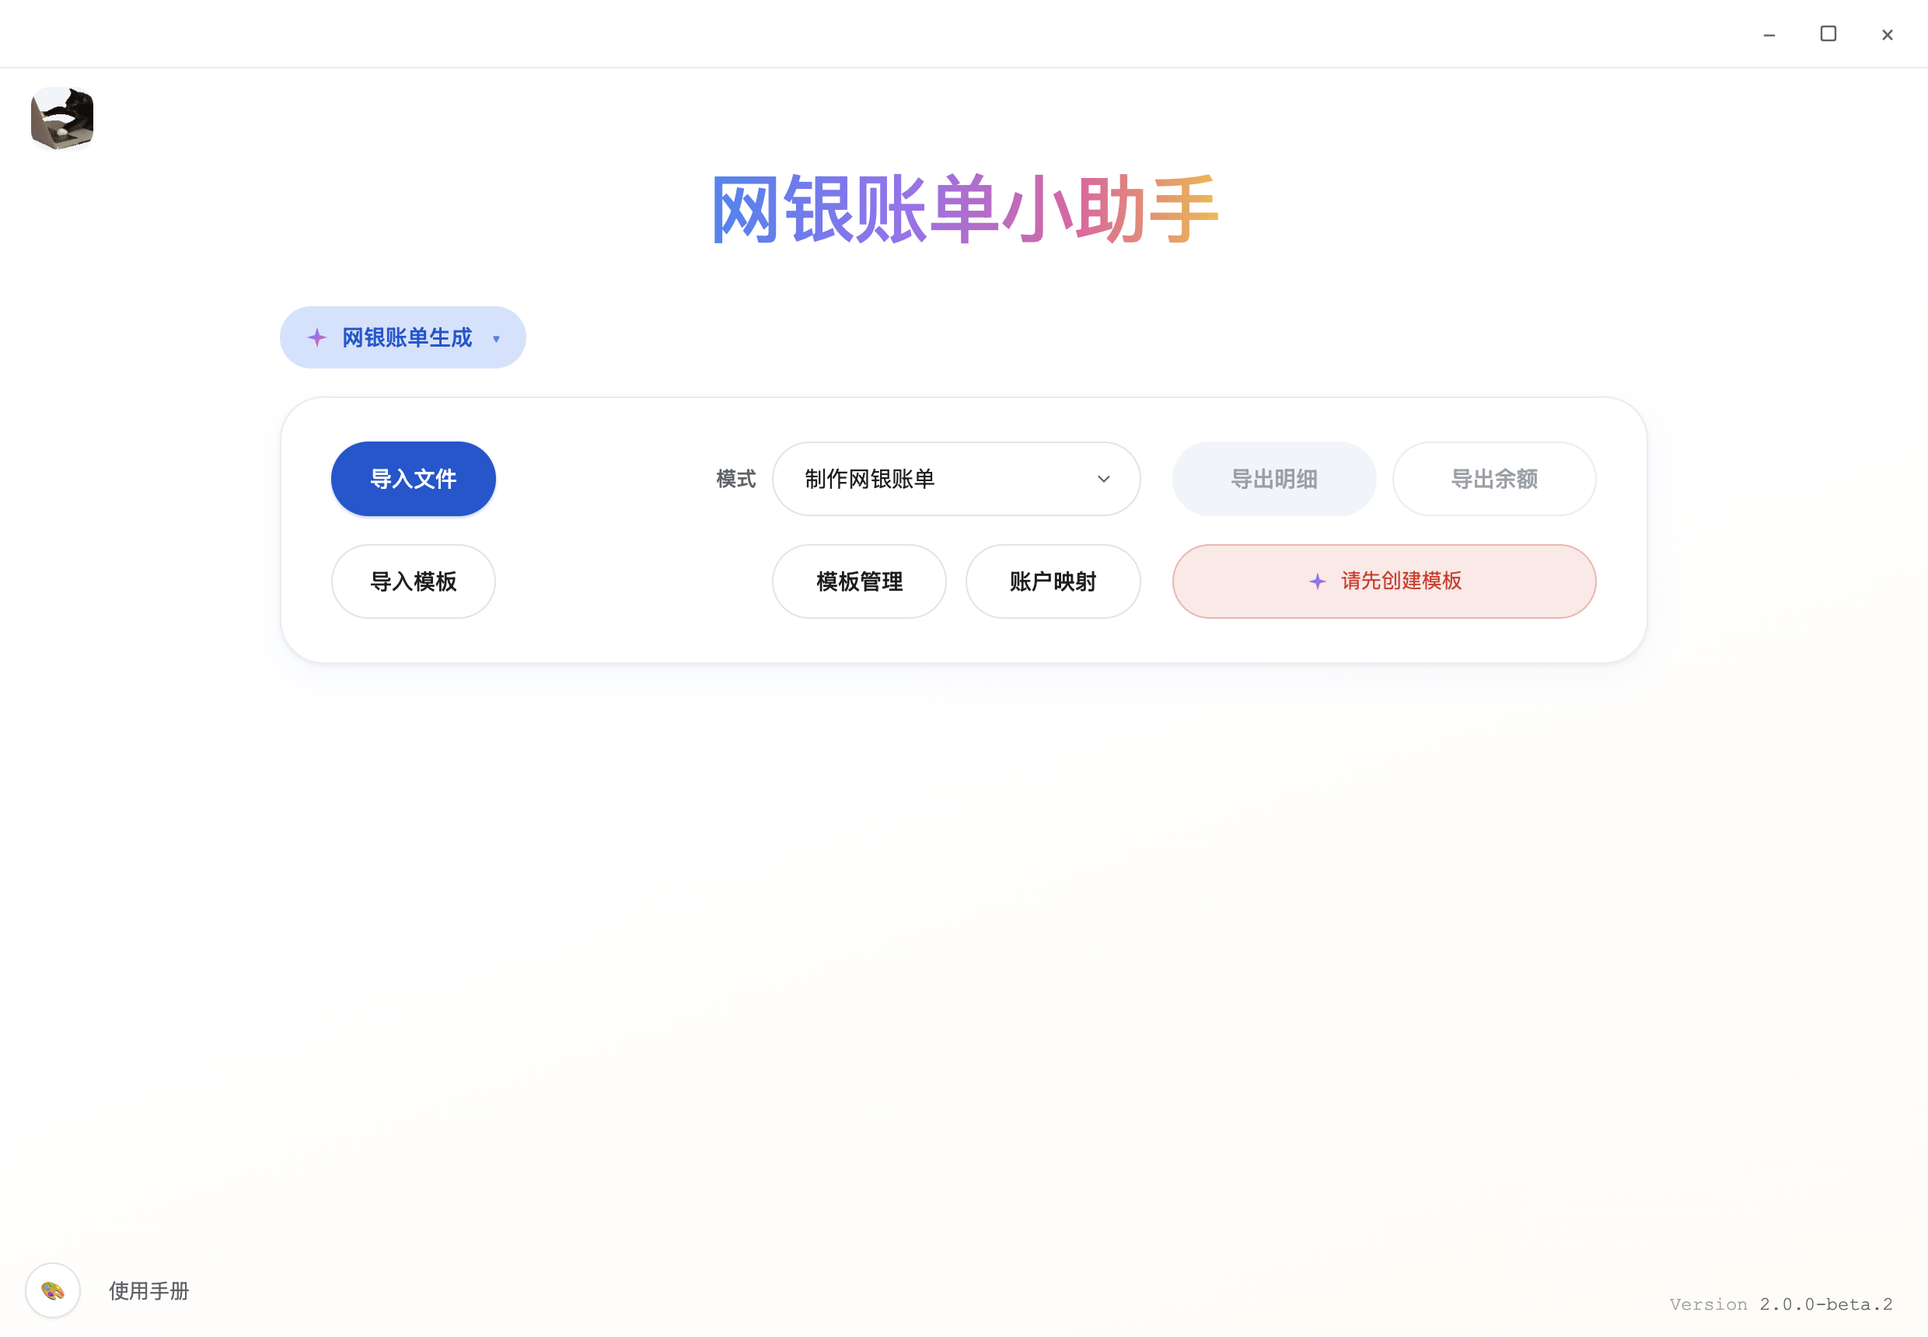
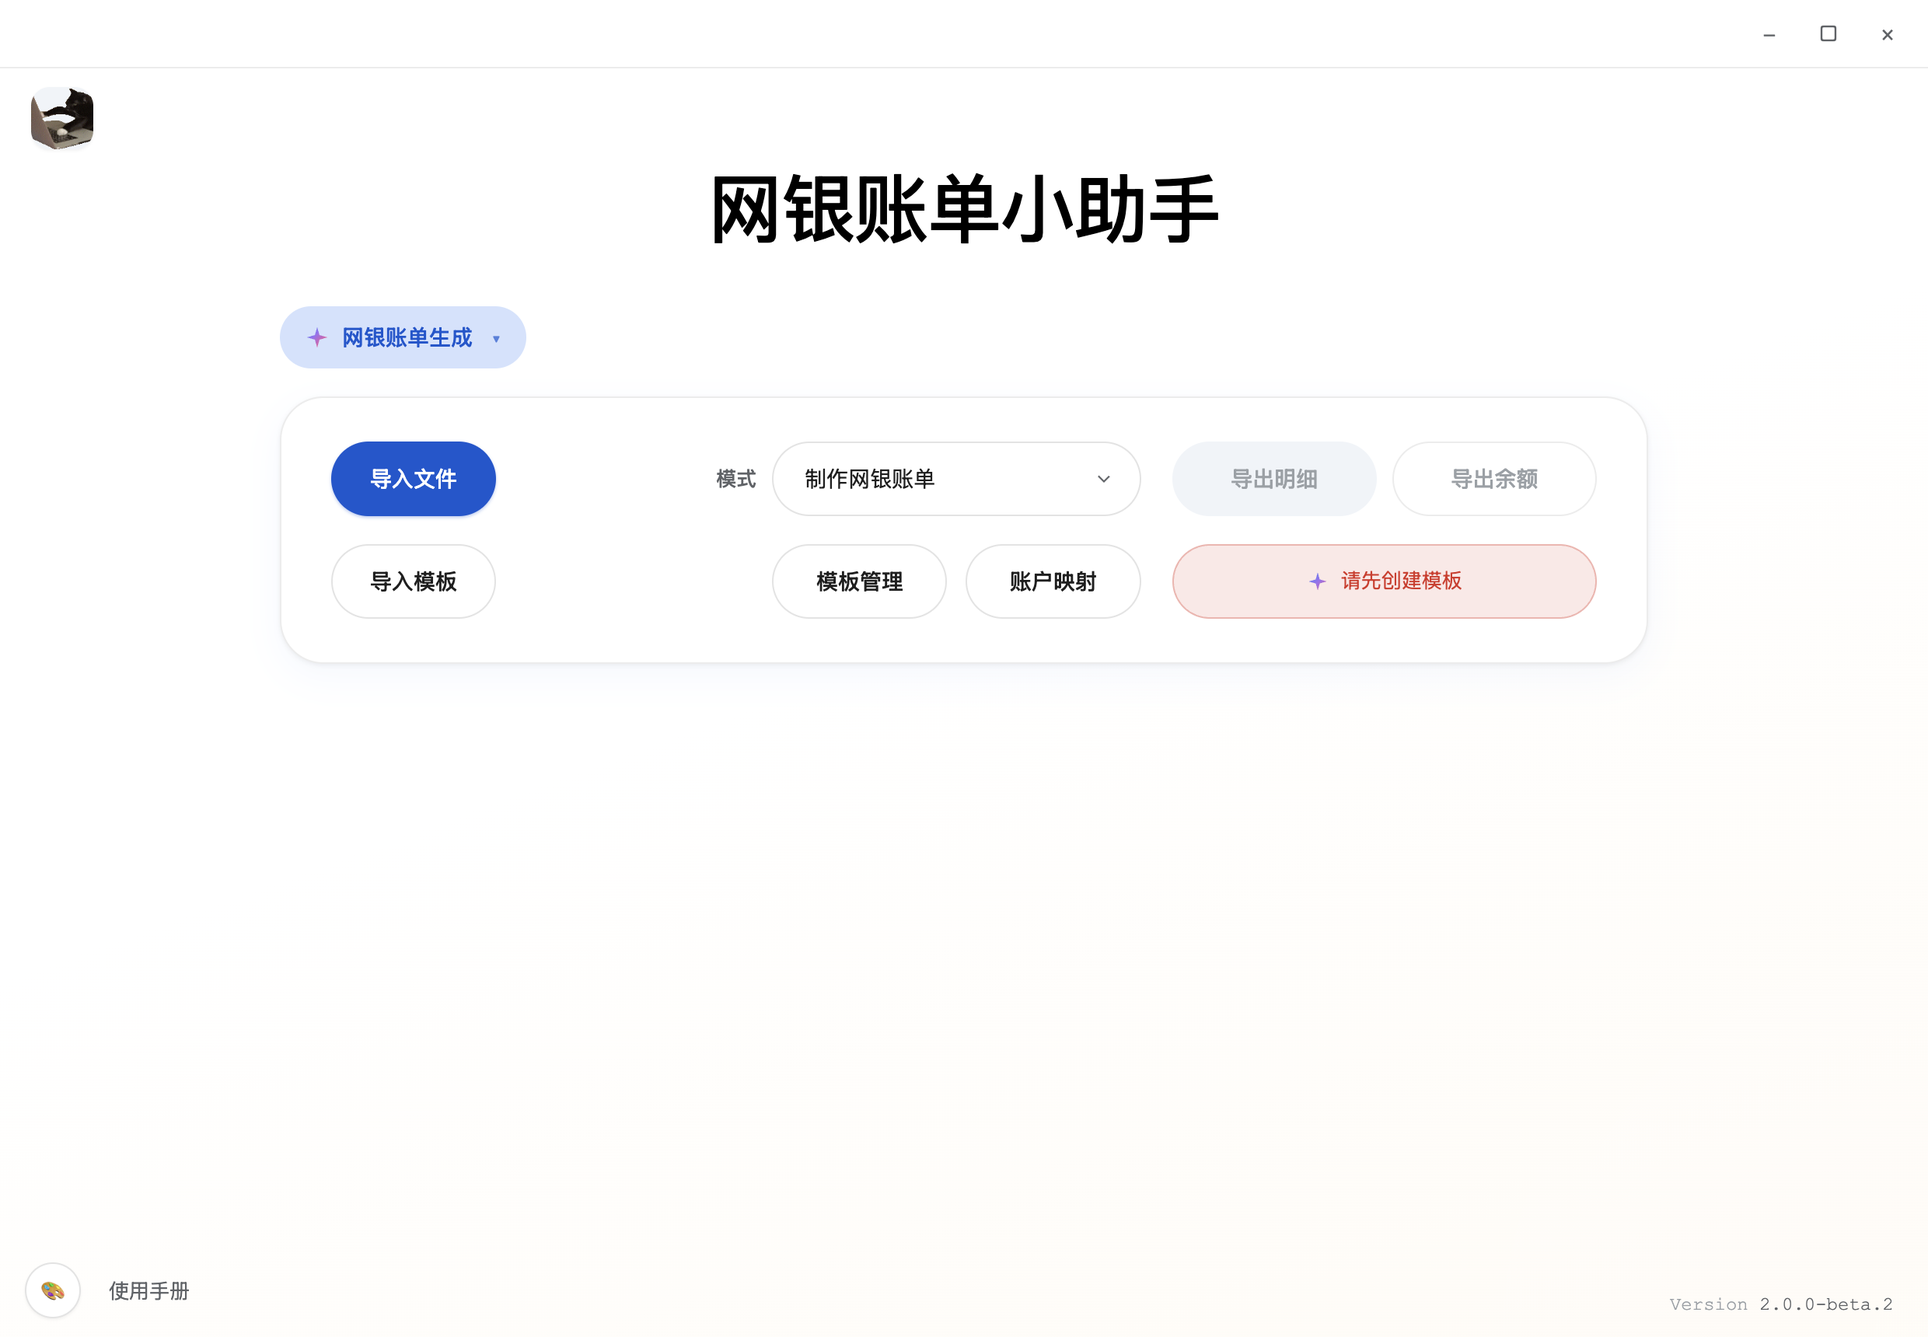
[v2.0.0-beta.2] feat: 主页面标题黑色 + 月度余额日期统一月末
T1 主页面标题：index.html "网银账单小助手" 在 Clear 风格下从 4 色
渐变改为纯黑色（styles-gemini.css 单点改 .gemini-gradient）；
General 风格已退化为 inherit，无需改动。

T3 月度余额账单：assembleMonthlyBalance 输出的 records.billDate
统一为目标月末日（targetLastDay），不再用 seed 实际记录日。

⚠ 反转 v1.5.3 R1 (T1.4) PRD §5.1.3 Q2 资金红线决策：
- 旧：billDate 用 seed 实际记录日（如 2026-02-25）
- 新：billDate 统一月末日（如 2026-02-28）
- endBalance 不变，仍取 seed 里"≤ 月末的最近交易日"那条的余额值
- pickReason 仍区分 'exact' / 'fallback' 用于 stats 报告

Smoke 用例同步反转：
- 场景 3 (P0-5)：fallback 时 billDate 期望从 '2026-02-28' → '2026-03-31'
- 场景 7 (P0-11)：自有账号 billDate 期望从 '2026-03-15' → '2026-03-31'

不 bump 版本号；不更新 CHANGELOG / VERSION_FEATURE_HISTORY /
USER_GUIDE（按 workflow_docs_update：v2.0.0 系列发版前统一收口）。

Changed region(s): [[0.3726, 0.1233, 0.621, 0.1849]]

diff --git a/scripts/smoke/scenarios.js b/scripts/smoke/scenarios.js
@@ -821,6 +821,7 @@ function runMonthlyBalanceScenario() {
     // -----------------------------------------------------------------------
     // 场景 3（P0-5 对应）：单模板 × 2026-03 某账号仅有 2026-02-28 → 兜底
     // 中行-北京 BOC_CLIENT_2/CNY 仅有 2026-02-28
+    // v2.0.0 反转：billDate 统一为月末日（targetLastDay）；endBalance 仍是 chosen.endBalance；pickReason 仍区分 exact/fallback
     const r3 = assembleMonthlyBalance({
       templateScope: '中行-北京',
       year: 2026, month: 3,
@@ -828,8 +829,8 @@ function runMonthlyBalanceScenario() {
     });
     const bocC2CNY = r3.records.find((r) => r.merchantId === 'BOC_CLIENT_2' && r.currency === 'CNY');
     assert(bocC2CNY, '场景3 BOC_CLIENT_2/CNY 应存在');
-    assert.strictEqual(bocC2CNY.billDate, '2026-02-28', '场景3 兜底 → billDate 应为 2026-02-28');
-    assert.strictEqual(bocC2CNY.endBalance, 900.00, '场景3 endBalance 应为 900.00');
+    assert.strictEqual(bocC2CNY.billDate, '2026-03-31', '场景3 兜底 → billDate 仍为月末日 2026-03-31（v2.0.0 反转：不再用 seed 实际日期 2026-02-28）');
+    assert.strictEqual(bocC2CNY.endBalance, 900.00, '场景3 endBalance 应为 900.00（仍是 2026-02-28 那条 seed 的余额）');
     assert.strictEqual(bocC2CNY.pickReason, 'fallback');
 
     // -----------------------------------------------------------------------
@@ -888,7 +889,8 @@ function runMonthlyBalanceScenario() {
     });
     const ownInResult = r6.records.find((r) => r.merchantId === 'BOC_OWN_1');
     assert(ownInResult, '场景7 自有账号 BOC_OWN_1 应出现在 R1 records');
-    assert.strictEqual(ownInResult.billDate, '2026-03-15');
+    // v2.0.0 反转：billDate 统一为月末日 2026-03-31（不再用 seed 实际日期 2026-03-15）；endBalance 仍是 77.77
+    assert.strictEqual(ownInResult.billDate, '2026-03-31');
     assert.strictEqual(ownInResult.endBalance, 77.77);
 
     // toBalanceRows 字段对齐（模拟 balanceTemplateFields）

diff --git a/src/main-process/monthly-balance.js b/src/main-process/monthly-balance.js
@@ -1,4 +1,5 @@
 // v1.5.3 R1 (T1.2)：月度余额账单导出装配模块（资金红线集中点）
+// v2.0.0-pre-beta3-quickwin：billDate 输出统一为月末日（反转 v1.5.3 Q2 资金红线决策）
 //
 // 职责：
 //   - assembleMonthlyBalance：按 templateScope × {year, month} 从 balance-seeds 装配 records
@@ -9,6 +10,8 @@
 //          - 若存在 billDate === 月末最后一日 → 优先用该日
 //          - 若全部 seeds 的 billDate > 月末 → 跳过该大账号（"未来余额排除"）
 //          - 无任何 seeds → 跳过该大账号
+//          - **v2.0.0 反转**：输出 records.billDate 统一用 targetLastDay（月末日），不再用 seed 实际记录日；
+//            endBalance 仍取 chosen.endBalance（最近交易日的余额值）
 //   - Q6：R1 是全流程里唯一放行 account_nature='own' 的场景，所以必须显式传 { includeOwn: true }
 //   - Q4：所有模板 / 大账号 / 币种的余额条目合并到单个 sheet
 //
@@ -188,13 +191,14 @@ function assembleMonthlyBalance({ templateScope, year, month, db, storageRoot })
         continue;
       }
 
-      // Q2 资金红线：billDate 用 seed 实际记录的那一天（可能是 2026-02-28），不是月末
+      // v2.0.0：billDate 统一用月末日（targetLastDay）；endBalance 仍是 chosen.endBalance
+      // —— 反转 v1.5.3 R1 Q2 "用 seed 实际记录日" 决策；用户业务要求月度账单日期落在月末
       records.push({
         bankName,
         location,
         merchantId,
         currency,
-        billDate: chosen.billDate,
+        billDate: targetLastDay,
         endBalance: chosen.endBalance,
         templateName,
         pickReason: reason

diff --git a/src/styles-gemini.css b/src/styles-gemini.css
@@ -120,15 +120,7 @@ button, select { font: inherit; }
   line-height: 1.1;
 }
 .gemini-gradient {
-  background: linear-gradient(92deg,
-    var(--g-blue) 0%,
-    var(--g-purple) 38%,
-    var(--g-pink) 72%,
-    var(--g-yellow) 100%);
-  -webkit-background-clip: text;
-  background-clip: text;
-  -webkit-text-fill-color: transparent;
-  color: transparent;
+  color: #000;
 }
 
 /* Workspace + module switcher (chip pill) */

diff --git a/changes/v2.0.0-pre-beta3-quickwin/spec.md b/changes/v2.0.0-pre-beta3-quickwin/spec.md
@@ -1,0 +1,147 @@
+# Spec — v2.0.0-pre-beta3-quickwin
+
+> status: apply
+> owner: team-lead
+> created: 2026-04-28
+> updated: 2026-04-28
+
+## 1. 背景
+
+- 为什么要做：v2.0.0-beta.3 大迭代（新增"银行对账单处理"模块）启动前，先把两个独立的小改动 ship 掉：① 主页面标题字体改黑、② 月度余额账单只导月末日（而非"最近交易日"）
+- 用户 / 业务价值：
+  - T1 标题改黑：去掉 Clear 风格的 4 色渐变标题，回到中性黑色（用户偏好简洁）
+  - T3 月末日：用户实际财务流程要求"导月末余额表"必须用月末当日为账单日期，不能用 seed 的实际记录日（如 2026-02-25）
+- 当前问题：
+  - T1：标题用 `webkit-background-clip: text` 实现 4 色渐变（Google 风格），用户希望改回黑色
+  - T3：`monthly-balance.js:197` 当前 `billDate: chosen.billDate` 直接用 seed 实际日期；这是 v1.5.3 R1 (T1.4) 引入的 **Q2 资金红线决策**，本次需要**反转**
+
+## 2. 代码现状（必须有出处）
+
+### T1 标题颜色
+
+- `index.html:29` — `<h1 class="page-title"><span class="gemini-gradient">网银账单小助手</span></h1>`
+- `src/styles-gemini.css:113-132` — Clear 风格（默认）：`.page-title` 字号 48px / weight 500；`.gemini-gradient` 用 4 色渐变 + `webkit-background-clip: text` + `color: transparent`
+- `src/styles.css:2634-2639` — General 风格退化：`.gemini-gradient { background: none; color: inherit; }`
+- 当前行为：Clear 风格显示 4 色渐变标题；General 风格继承父级 `.page-title` 颜色（项目当前 `.page-title` 没有显式 `color`，浏览器默认黑色）
+
+### T3 月末日
+
+- `src/main-process/monthly-balance.js:1-12` 头注释明确：
+  > Q2：每个 (merchantId, currency) 的"最新余额"取 billDate ≤ 月末最后一日里 billDate 最大的一条；
+  > 若存在 billDate === 月末最后一日 → 优先用该日；
+  > 若全部 seeds 的 billDate > 月末 → 跳过该大账号
+- `src/main-process/monthly-balance.js:58-87` `pickLatestSeedForAccount(...)` 返回 `{ chosen, reason }`，reason ∈ `'exact' | 'fallback' | 'no-candidates' | 'invalid-merchant-id'`
+- `src/main-process/monthly-balance.js:191-201` —
+  ```js
+  // Q2 资金红线：billDate 用 seed 实际记录的那一天（可能是 2026-02-28），不是月末
+  records.push({
+    bankName, location, merchantId, currency,
+    billDate: chosen.billDate,  // ← 关键：用 seed 实际日期
+    endBalance: chosen.endBalance,
+    templateName,
+    pickReason: reason
+  });
+  ```
+- 当前行为：导出表的"账单日期"列是 seed 的实际记录日；用户希望统一为目标月的月末最后一日
+
+## 3. 目标
+
+- 必做：
+  1. **T1**：主页面标题"网银账单小助手"在 Clear / General 两种风格下都显示**纯黑色**，不再有渐变
+  2. **T3**：月度余额账单导出时，"账单日期"列**统一为目标月最后一日**，不再用 seed 实际日期
+- 可不做：
+  - 不改 `endBalance` 取数逻辑（仍是"≤ 月末的最大 billDate 那条 seed 的余额"）
+  - 不改 `pickReason`（'exact' / 'fallback' 用于 stats 报告，对外不变）
+  - 不改 `missingAccounts`（仍按"全部 > 月末"判断"未来余额排除"）
+- 明确不做：
+  - 不 bump 版本号到 beta.3（T2 完成才 bump）
+  - 不更新 CHANGELOG / VERSION_FEATURE_HISTORY / USER_GUIDE（按 `workflow_docs_update`：v2.0.0 系列发版前统一收口）
+  - 不改 balance-seeds 落盘结构（seeds 仍记真实日期）
+
+## 4. 功能点
+
+### 功能点 T1 — 主页面标题改黑
+
+- 说明：`.gemini-gradient` 在 Clear 风格下取消渐变，纯黑色
+- 输入：CSS 文件
+- 输出：标题视觉变化（从 4 色渐变 → 纯黑色）
+- 边界：
+  - 不影响 General 风格（已是 inherit，父级是黑）
+  - 不动其他用 `gemini-gradient` 的地方（grep 确认仅 `index.html:29` 主标题用了；如有其他地方需要单独评估）
+- 验收标准：
+  - 跑 `npm run preview` 后 `docs/previews/main-page.png` 标题为黑色
+  - 跑 `APP_PREVIEW_STYLE=general npm run preview`（如有）General 风格也是黑色
+
+### 功能点 T3 — 月度余额"账单日期"统一为月末
+
+- 说明：`assembleMonthlyBalance` 内构造 records 时，`billDate` 字段统一写 `targetLastDay`（即 `YYYY-MM-末日`），不再用 `chosen.billDate`
+- 输入：`{ templateScope, year, month, db, storageRoot }`
+- 输出：records 数组里每条记录的 `billDate` 字段值 = `buildTargetLastDay(year, month)`
+- 边界：
+  - `endBalance` 仍取 `chosen.endBalance`（seed 里的余额值）—— **余额值不变，只改日期字段**
+  - `chosen` 为 null（no-candidates）时仍跳过该大账号（行为不变）
+  - 闰年 2 月：`lastDayOfMonth(2024, 2) === 29`，`lastDayOfMonth(2025, 2) === 28`（已有逻辑）
+- 验收标准：
+  - 单元/集成测试：构造若干 seed（2026-02-15 / 2026-02-25 两条），调用 `assembleMonthlyBalance({ year: 2026, month: 2 })`
+    - 期望 `records[0].billDate === '2026-02-28'`（月末日，不是 02-25）
+    - 期望 `records[0].endBalance === <2026-02-25 那条 seed 的余额>`（仍是最近交易日的余额）
+  - 跑 smoke 不退化（smoke 当前是否覆盖 monthly-balance 待确认）
+
+## 5. 影响范围
+
+- 前端：`src/styles-gemini.css`（T1）；`src/styles.css` 不动（已退化）
+- 后端：`src/main-process/monthly-balance.js`（T3）
+- 脚本 / 配置 / 数据：无 schema 变更
+- 对外接口影响：
+  - T1：纯视觉，无接口
+  - T3：导出文件的"账单日期"列值变化（**对外可见**）；输出 records 的 `billDate` 字段语义变化
+- 兼容性影响：
+  - T3：用户已经导出过的旧月度余额账单文件不受影响（只影响新一次导出）
+  - balance-seeds 文件结构不变（seed 仍记真实日期）
+
+## 6. 技术决策
+
+### T1
+- 方案：在 `styles-gemini.css` 把 `.gemini-gradient` 内容直接换成 `color: #000`，删掉渐变三件套（`background: linear-gradient ...` / `webkit-background-clip` / `color: transparent`）
+- 为什么不用其他方案：
+  - 不在 `styles.css` 改：那个文件是 General 风格，已经是 `inherit`，没必要动
+  - 不在 `index.html` 加 inline style：失去 CSS cascade 优势，且 General 风格也会受影响
+- 可能风险：
+  - 如果其他地方（dialog 标题等）也用 `.gemini-gradient` 期望渐变，会被波及。需要 grep 确认仅主标题用了
+
+### T3
+- 方案：单点改 `monthly-balance.js:197` `billDate: chosen.billDate` → `billDate: targetLastDay`
+- 为什么不用其他方案：
+  - 不在 `toBalanceRows` 里改：会让"records 内部数据"和"导出值"语义割裂，调试困难
+  - 不在 `pickLatestSeedForAccount` 内改：那个函数职责是"从 seeds 选一条"，改 billDate 不属于它
+- 可能风险：
+  - **资金红线反转**：v1.5.3 R1 (T1.4) PRD §5.1.3 Q2 决策曾明确"用 seed 实际日期不是月末"，本次反转。需要在 PR body 显式提醒 reviewer
+
+## 7. 数据 / 状态 / 安全影响
+
+### ⚠ T3 资金红线反转（必须高亮）
+
+- 涉及 CLAUDE.md 第 7 条："资金、计费、订单"红线
+- 反转决策：**v1.5.3 R1 (T1.4) PRD §5.1.3 Q2 → v2.0.0 反转**
+  - 旧决策：billDate 用 seed 实际记录日（"忠实反映底层数据"）
+  - 新决策：billDate 统一为月末日（"对外报表必须落在月末"）
+- 数据正确性：
+  - 余额值（endBalance）**不变**：仍是 seed 里"≤ 月末的最近交易日"那条的余额值
+  - 日期字段（billDate）**变**：从 seed 实际日期 → 目标月末日
+  - 用户业务理解："2026 年 2 月月末账单显示 2026-02-28，但其实际余额来自 2026-02-25 的最近交易日"
+- 状态流转：无（一次性导出，不持久化）
+- 权限 / 安全：无
+- 回滚策略：
+  - 代码层：revert commit
+  - 数据层：用户重新导出即可（balance-seeds 文件结构未变，回滚后 billDate 字段恢复到 seed 实际日期）
+
+### T1 无影响
+
+- 纯 CSS 改动；不影响数据 / 状态 / 安全
+
+## 8. 待澄清问题
+
+- [x] T1 标题字号是否同步调整？→ **不调整**，仅改颜色
+- [x] T1 是否影响其他 `.gemini-gradient` 使用点？→ **grep 确认仅主标题用**（如有其他用法另议）
+- [x] T3 是否需要给 `pickReason: 'fallback'` 时显式警告"实际日期 ≠ 月末"？→ **不需要**（输出 billDate 已经是月末，用户感知统一）
+- [x] T3 是否需要在 stats 里增加 `originalBillDate` 留痕？→ **不需要**（保留 `pickReason` 即可，'fallback' 含义就是"非月末日匹配"）

diff --git a/changes/v2.0.0-pre-beta3-quickwin/tasks.md b/changes/v2.0.0-pre-beta3-quickwin/tasks.md
@@ -1,0 +1,49 @@
+# Tasks — v2.0.0-pre-beta3-quickwin
+
+## Task 1 — T1 主页面标题改黑
+- 目标：Clear 风格下 `.gemini-gradient` 显示纯黑色
+- 涉及文件：`src/styles-gemini.css`
+- 操作：
+  1. grep 全仓 `gemini-gradient` 使用点，确认仅 index.html:29 主标题
+  2. `styles-gemini.css:122-132` 把 `.gemini-gradient` 内容替换为 `color: #000;`，删掉 `background` / `webkit-background-clip` / `webkit-text-fill-color` / `color: transparent`
+- 验证：跑 `npm run preview`，肉眼确认 `docs/previews/main-page.png` 标题黑色
+- 状态：todo
+
+## Task 2 — T3 月度余额 billDate 改月末日
+- 目标：`assembleMonthlyBalance` 输出的 records.billDate = `targetLastDay`
+- 涉及文件：`src/main-process/monthly-balance.js`
+- 操作：
+  1. 行 197 `billDate: chosen.billDate` → `billDate: targetLastDay`
+  2. 行 8-10 头注释更新 Q2 描述：从"用 seed 实际日期"改为"统一用月末日（v2.0.0 反转 v1.5.3 决策）"
+  3. 行 191 单行注释更新：从"Q2 资金红线：billDate 用 seed 实际记录的那一天"改为"v2.0.0：billDate 统一用月末日（targetLastDay）；endBalance 仍是 chosen.endBalance"
+- 验证：
+  - 写一个临时 node 脚本：模拟 seeds（2026-02-15、2026-02-25 各一条），调 `assembleMonthlyBalance({ year:2026, month:2 })`，断言 `records[0].billDate === '2026-02-28'` 且 `records[0].endBalance === <2026-02-25 那条 seed 的余额>`
+- 状态：todo
+
+## Task 3 — smoke + preview 回归
+- 目标：自动化不退化
+- 涉及文件：无
+- 操作：
+  1. `npm run smoke`
+  2. `npm run preview`（Clear）
+  3. `npm run preview:account`
+  4. 如有 General preview 命令也跑一遍
+- 验证：smoke pass + preview 截图含黑色标题
+- 状态：todo
+
+## Task 4 — important-variables 入表评估
+- 目标：T1+T3 的改动是否触发新增 / 升格条目
+- 操作：grep 改动 diff 里的符号 vs `rules/important-variables.md`
+  - T1 改 CSS，无 JS 符号 → 无影响
+  - T3 改 `monthly-balance.js`，命中既有 Risk-sensitive `lastDayOfMonth` / Important-skeleton `templateRepository`（间接调用）
+- 评估结论：填入 log.md
+- 状态：todo
+
+## Task 5 — 提 PR
+- 目标：PR #28 提交 + Codex review 处理
+- 操作：
+  1. commit 一个（小改动一 PR）
+  2. push origin v2.0.0
+  3. `gh pr create` 含资金红线反转高亮
+  4. 等 Codex 评论，按 P0/P1 处理
+- 状态：todo

diff --git a/changes/v2.0.0-pre-beta3-quickwin/log.md b/changes/v2.0.0-pre-beta3-quickwin/log.md
@@ -1,0 +1,19 @@
+# Log — v2.0.0-pre-beta3-quickwin
+
+## 2026-04-28 初始
+
+- 动作：落 spec/tasks/log，状态=apply
+- 证据：用户需求"做下 v2.0.0-beta.3 迭代"含 3 项；T1（5 分钟改色）+ T3（月末日替换）按 PR 切分方案 A 抽出来打小 PR
+- 风险：
+  - **⚠ T3 反转 v1.5.3 R1 (T1.4) PRD §5.1.3 Q2 资金红线决策**
+    - 旧决策：billDate 用 seed 实际记录日
+    - 新决策：billDate 统一为月末日
+    - PR body 必须显式高亮提醒 reviewer
+- 决策：
+  - T1：单文件改 styles-gemini.css，纯黑色 `color: #000`，删掉渐变三件套
+  - T3：单点改 monthly-balance.js:197，billDate 改用 targetLastDay
+  - 不 bump 版本号；不更新 CHANGELOG / VERSION_FEATURE_HISTORY / USER_GUIDE（按 workflow_docs_update）
+  - PR 切分方案 A：T1 + T3 一起进 PR #28；T2 单独走 v2.0.0-beta.3 大 PRD
+
+## 可沉淀知识
+- [ ] 资金红线决策反转的 PR 模式：spec § 7 必须含"反转点声明"+"新旧决策对比"+"回滚策略"；PR body 必须显式高亮
